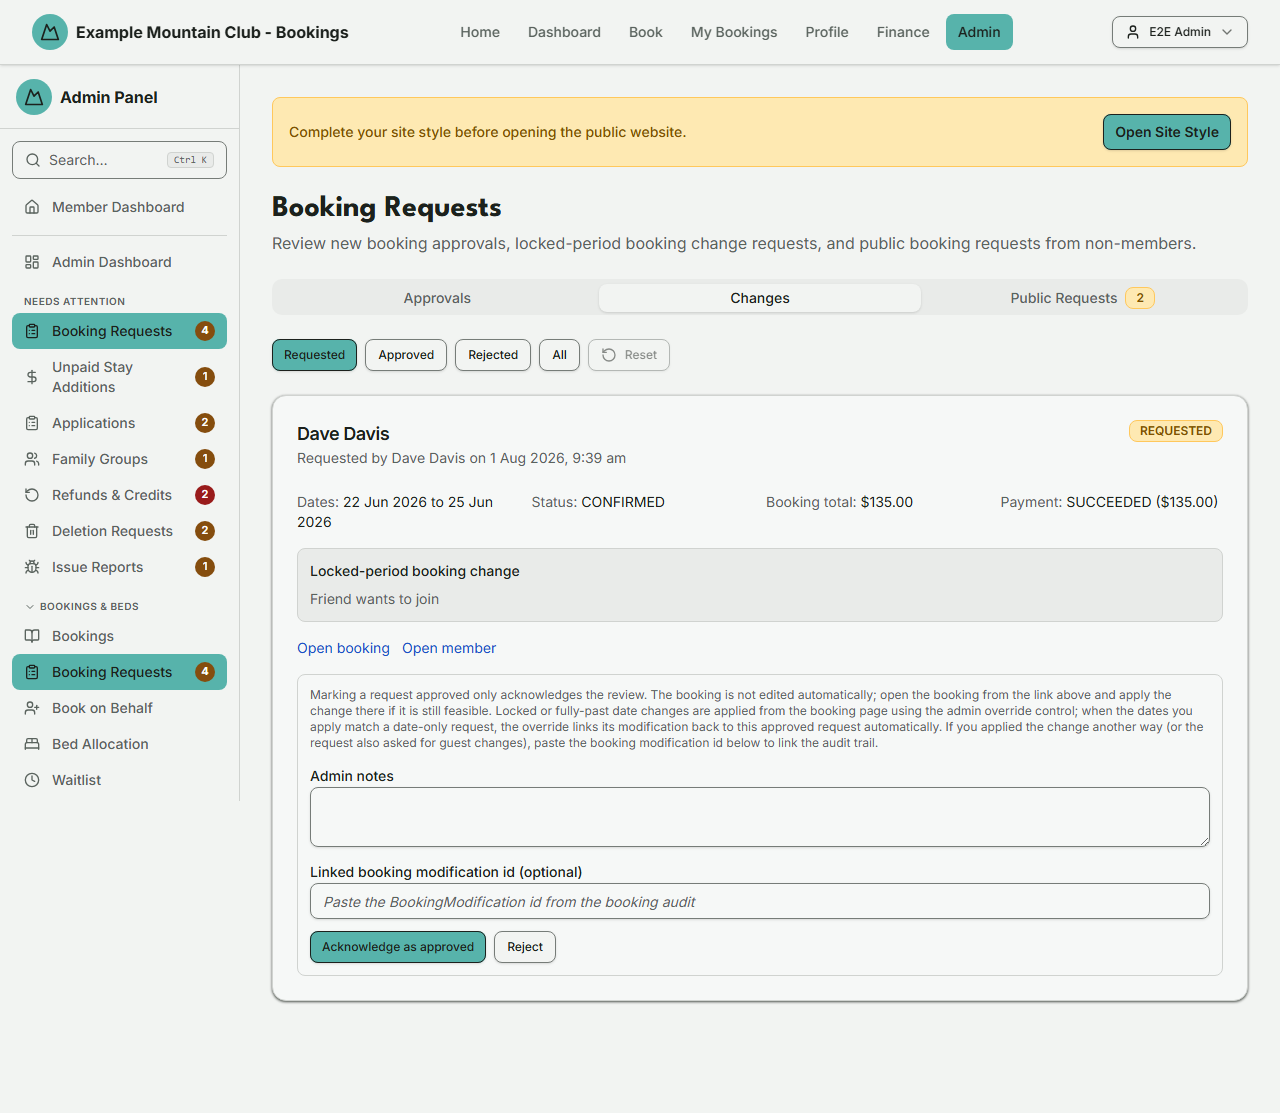
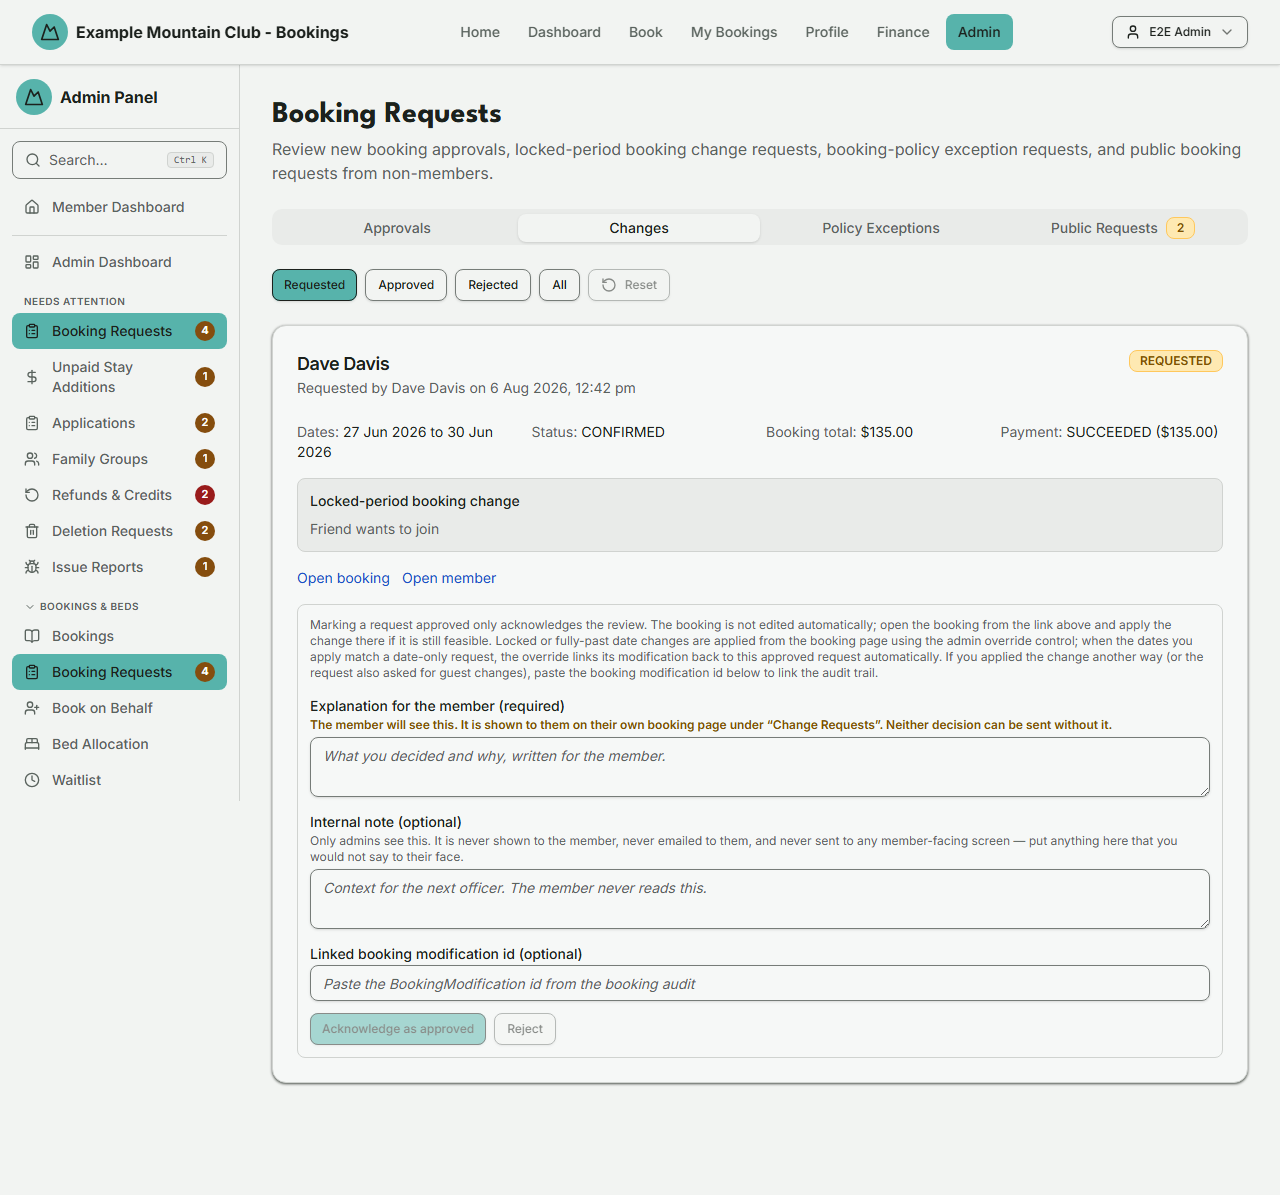
docs(#2562): refresh the officer note-split capture

diff --git a/docs/E2E_PLAYWRIGHT.md b/docs/E2E_PLAYWRIGHT.md
@@ -24,7 +24,7 @@ the demo seed (`prisma/demo-seed.ts`).
 | `e2e/member-guest-find.spec.ts` | Member-guest finder + privacy (#2308, High) | One journey per find mode — exact email (the shipped default) and the name type-ahead a club has deliberately switched on — plus a module-off assertion that the surface is simply absent. Its browser assertions run LAST in the serial file, so a navigation failure cannot skip the privacy ones |
 | `e2e/multi-lodge/member-guest-edit-path.spec.ts` | Member-guest edit path + admin parity (#2309, High) | Adding a member guest while EDITING a booking, in the multi-lodge project because the edit path reaches capacity and pricing through lodge-scoped code. A member opens an existing booking, asserts the Guests card header carries the signed-off two-button shape (`+ Add Member Guest` then `+ Add Non-Member Guest`, and no generic `+ Add Guest`), finds a cross-family member by exact email, sees the honest pre-save promise ("will be emailed when you save this change, and their bed is held until they answer") on the new row, saves, and the consent request lands in mailpit. Then a **Booking Officer** — the #1376 persona, deliberately, because the exact-email box has to work for a role with no membership access — does the same on another booking and gets the other rule: the admin sentence inside the opened finder states the member is added immediately and told, and the ADDED notice arrives rather than a consent request |
 | `e2e/policy-exception-approval.spec.ts` | Booking-policy exception request → approve → execute (#2526, Critical) | A club-wide two-night minimum refuses a one-night stay, the member asks, and the officer's approval EXECUTES the reviewed proposal: the queue screen shows the request age and the rule it breaks, an unconfirmed approve and a reason-less refusal are both refused, a stale `expectedVersion` loses the guarded claim (409), and a NO_HOLD request the lodge can no longer fit stays REQUESTED with its conflict recorded and nothing created |
-| `e2e/member-policy-exception-requests.spec.ts` | Member-facing booking-policy exception lifecycle (#2562, Critical) | The member's own half of the workflow, driven by clicking rather than by API. A club-wide two-night minimum is created for the run; a stay that MEETS it still books through to the payment step with no exception step (the regression guard); re-booking a night the member already holds is refused for a reason no officer can waive and offers **no** request action at all; a one-night stay is refused and the review step offers **Request Booking Officer approval**, which names the rule, echoes the exact proposal, says plainly that no beds are held and that approval is discretionary, refuses to submit without an explanation, and then shows the proposal the SERVER froze. **My booking-rule requests** on My Bookings then tracks it (pending → replaced → refused → approved), a duplicate create is refused with the replace-it-instead remedy, **Replace with a corrected request** returns to the wizard carrying `?replaceRequest=` and supersedes the original, and **Withdraw** closes one in two clicks. An officer decides on their own screen, typing BOTH note fields, and the internal note appears in neither the member's rendered page nor their API payload. The approval leaves a real booking the member's row links to. Finally the same section is asserted at a 390x844 viewport, and the edit-panel half raises a request whose capacity sentence is the modification path's own | 
+| `e2e/member-policy-exception-requests.spec.ts` | Member-facing booking-policy exception lifecycle (#2562, Critical) | The member's own half of the workflow, driven by clicking rather than by API. A club-wide two-night minimum is created for the run; a stay that MEETS it still books through to the payment step with no exception step (the regression guard); re-booking a night the member already holds is refused for a reason no officer can waive and offers **no** request action at all; a one-night stay is refused and the review step offers **Request Booking Officer approval**, which names the rule, echoes the exact proposal, says plainly that no beds are held and that approval is discretionary, refuses to submit without an explanation, and then shows the proposal the SERVER froze. **My booking-rule requests** on My Bookings then tracks it (pending → replaced → refused → approved), a duplicate create is refused with the replace-it-instead remedy, **Replace with a corrected request** returns to the wizard carrying `?replaceRequest=` and supersedes the original, and **Withdraw** closes one in two clicks. An officer decides on their own screen, typing BOTH note fields, and the internal note appears in neither the member's rendered page nor their API payload. The approval leaves a real booking the member's row links to. Finally the same section is asserted at a 390x844 viewport, and the edit-panel half raises a request whose capacity sentence is the modification path's own |
 | `e2e/multi-lodge/policy-exception-second-lodge.spec.ts` | Same workflow, second lodge (#2526, Critical) | A rule configured for lodge B only, an exception raised there, and an approval whose booking must land AT lodge B: the queue reports the lodge the proposal was FROZEN against, and the created booking is present in lodge B's calendar and absent from the club default's — the lodge leak a missing `lodgeId` would cause, from both sides |
 | `e2e/unmatched-url-status.spec.ts` | No matrix row — regression guard for #2405 (Medium) | The status LINE for URLs nothing serves, which only a running server can show. Anonymous throughout, because these are the shapes a crawler or a scanner asks for. Unmatched website URLs (`/definitely-missing`, `/wp-admin/setup-config.php`, `/.env`, `/admin/nope`) must each answer **404** *and* still render the club's own seeded `/404` CMS screen — pinned on the level-1 heading plus the seeded header text, since that page emits the same words as an `h2` as well and the hardcoded emergency fallback would otherwise satisfy a looser assertion. `/about` must still be **200**. Unmatched `/api` URLs — bare `/api` and `/api/` included — must answer a JSON 404 rather than ~23KB of HTML, with `POST` answered identically and `HEAD` carrying GET's `content-type`. `/api/health` must be untouched. Depends on `SEED_THEME_COMPLETE=1`: without it the layout's holding screen answers every URL with 200 |
 | `e2e/asset-url-404.spec.ts` | No matrix row — regression guard for #2404 (High) | The CSP on the static-asset URL shapes, which only a running server can show. Anonymous throughout — these are the addresses scanners and stale browser tabs ask for. A MISSING asset (`/foo.png`, `/favicon.ico`, `/logo.png`, `/wp-content/uploads/x.jpg`, `/branding/definitely-missing.png`, `/_next/static/chunks/nope.js`) must answer **404 with an empty body, no `content-type`**, the app's security headers, and a policy from the app rather than the edge — either the terminal route's own `default-src 'none'` or the proxy's nonced page policy, since #2404 closed this from both directions and `src/proxy.ts` now runs on image-extension URLs. `/_next/static/…` is the one shape the proxy still skips, so the exact `default-src 'none'` is pinned on it. Never the ~29KB HTML 404 page, which shipped inline scripts with no nonce and no CSP header at all. A REAL asset must still be served: `/branding/favicon.example.ico` and a `/_next/static/chunks/*.js` URL taken from a live page render both 200 with their bytes, which is the assertion that catches an `afterFiles` -> `beforeFiles` slip turning every image in the app into a 404 — and the `public/` one now also carries `nosniff`, `X-Frame-Options` and a nonced policy, which is the runtime check that running middleware on static assets disturbs nothing. An ADMIN-UPLOADED image must also still be served: the spec uploads a 1x1 PNG through `/api/admin/image-manager/upload` (the uploads directory is a container volume the seeds never populate), fetches it back **anonymously** at `/api/images/uploaded/<file>` and asserts 200 with the same bytes and `image/png` — the guard against an asset rule swallowing every uploaded picture in the app — while a missing one still gets that route's own JSON 404. `/_next/staticfoo`, `/_next/imagemap`, `/_next/image/x`, `/apiary` and `/api-docs` must carry a nonced policy (the bare-prefix exclusions anchored in #2404 and #2420). `/definitely-missing` must still render the club's own 404 screen, fully nonced — nothing here may blank a human-plausible mistyped address. Asset-shaped `/api` URLs are probed on two axes. Ones no handler claims (`/api/does-not-exist.png`, `/api/definitely-missing.jpg`, `/api/nope/deeper.webp`) must answer the frozen JSON 404; ones a real handler DOES claim (`/api/chores/zzz.svg` is `[token]`'s, `/api/admin/lockers/zzz.png` is `[id]`'s) must answer as that handler does and must never be diverted to the empty asset 404. Both are sent **with `RSC: 1` and a query string** and must carry neither `x-nextjs-rewritten-path` nor `x-nextjs-rewritten-query` — that request shape is the only one in which either header can be set, so without it the assertion cannot fail, and their presence in one module state and not the other is #2405's module-state oracle. Mixed case is pinned separately and the other way round: `/API/x.png` and `/API/images/uploaded/<file>` must render the club's own nonced 404 page rather than reach an `/api` handler, which is what proves the `(?!api/)` lookahead excludes the namespace case-insensitively instead of leaving a seam |

diff --git a/docs/guides/booking-requests.md b/docs/guides/booking-requests.md
@@ -68,10 +68,7 @@ are listed on the booking for you to relay.
 1. Switch to the **Changes** tab. Filter by **Requested**, **Approved**,
    **Rejected**, or **All**.
 
-   ![Booking Requests, Changes tab: a locked-period change request with Admin notes and an Acknowledge as approved button](../images/admin/admin-booking-requests-changes.png)
-
-   (The screenshot predates the two note fields described in step 3, so it still
-   shows the single **Admin notes** box.)
+   ![Booking Requests, Changes tab showing a locked-period change request with separate member explanation and internal note fields](../images/admin/admin-booking-requests-changes.png)
 
 2. Read the request summary and reason, then use **Open booking** to make the
    actual edit on the booking page — approving here only *acknowledges* the
